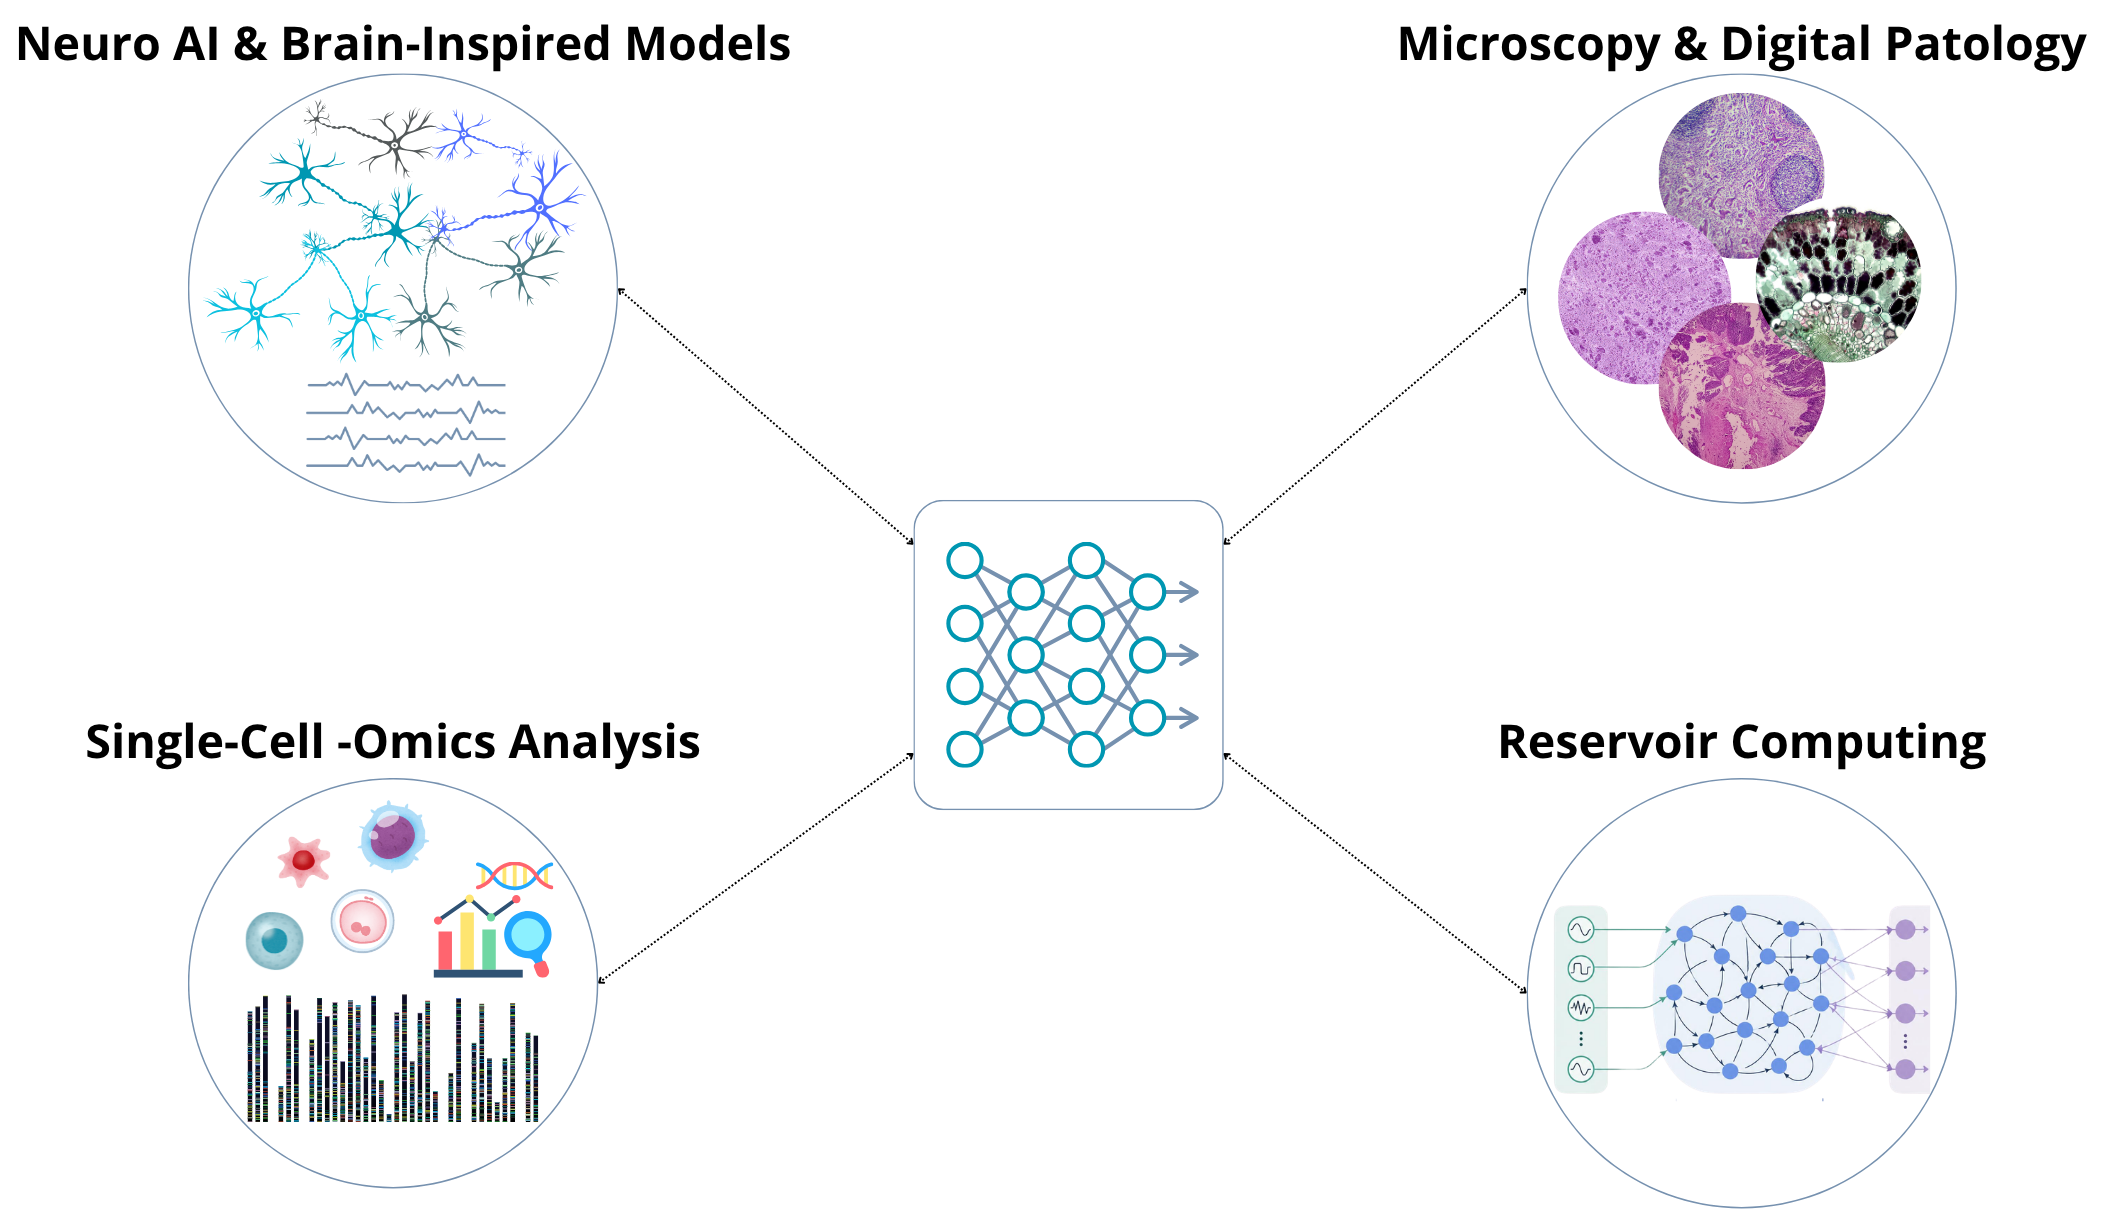
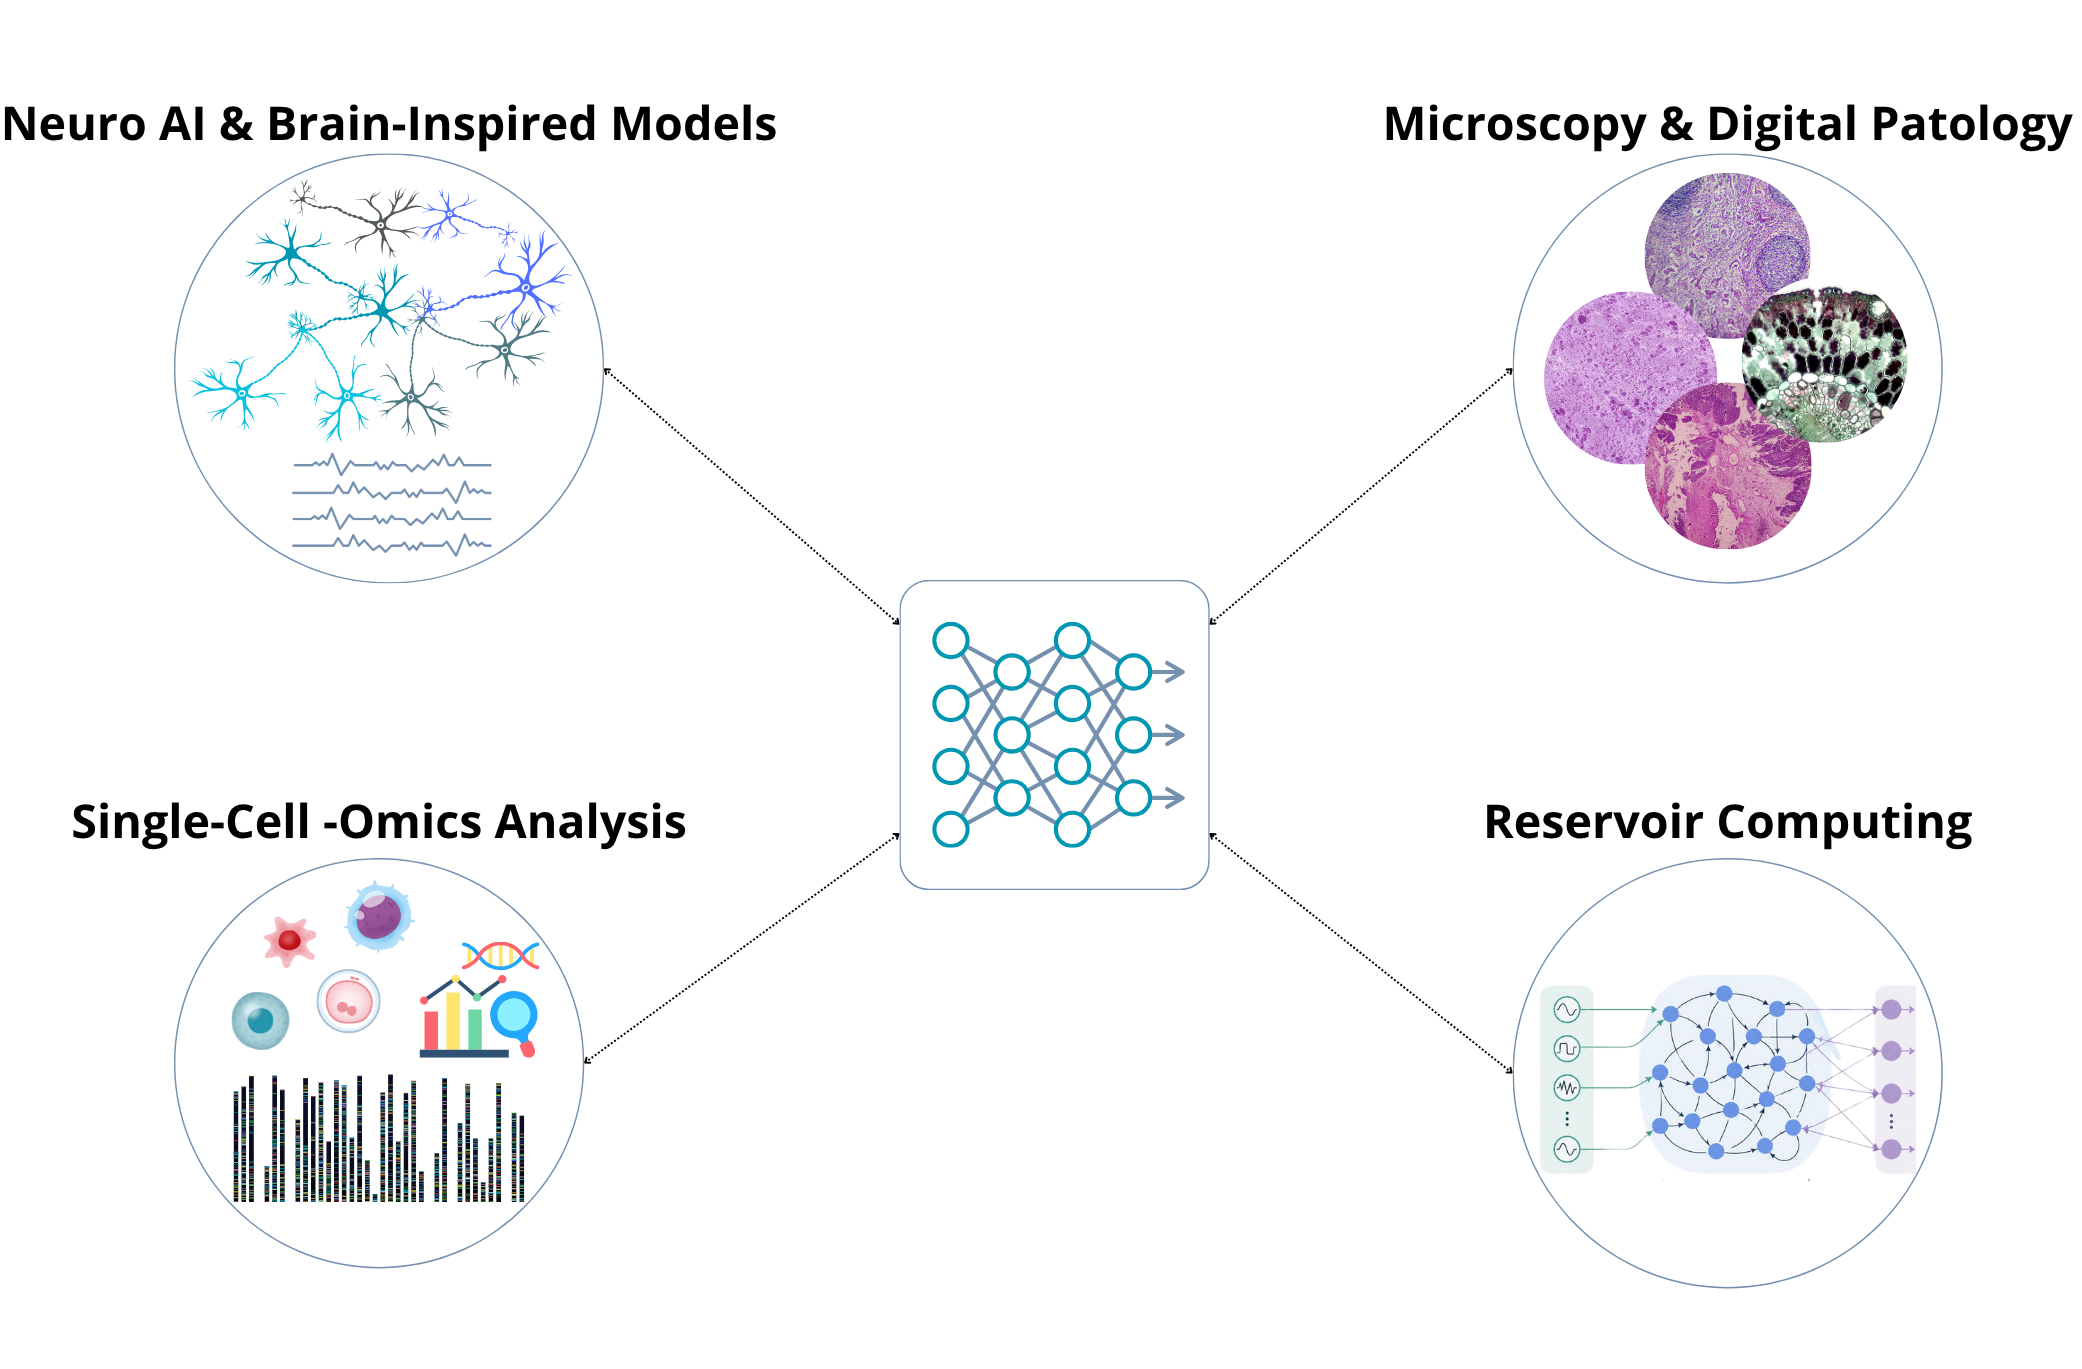
Update

diff --git a/_members/francesco-maria-rastelli.md b/_members/francesco-maria-rastelli.md
@@ -1,6 +1,6 @@
 ---
 name: Francesco Maria Rastelli
-image: images/fallback.svg
+image: images/francesco-maria-rastelli.jpg
 role: undergrad
 description: MSc Student
 aliases:
